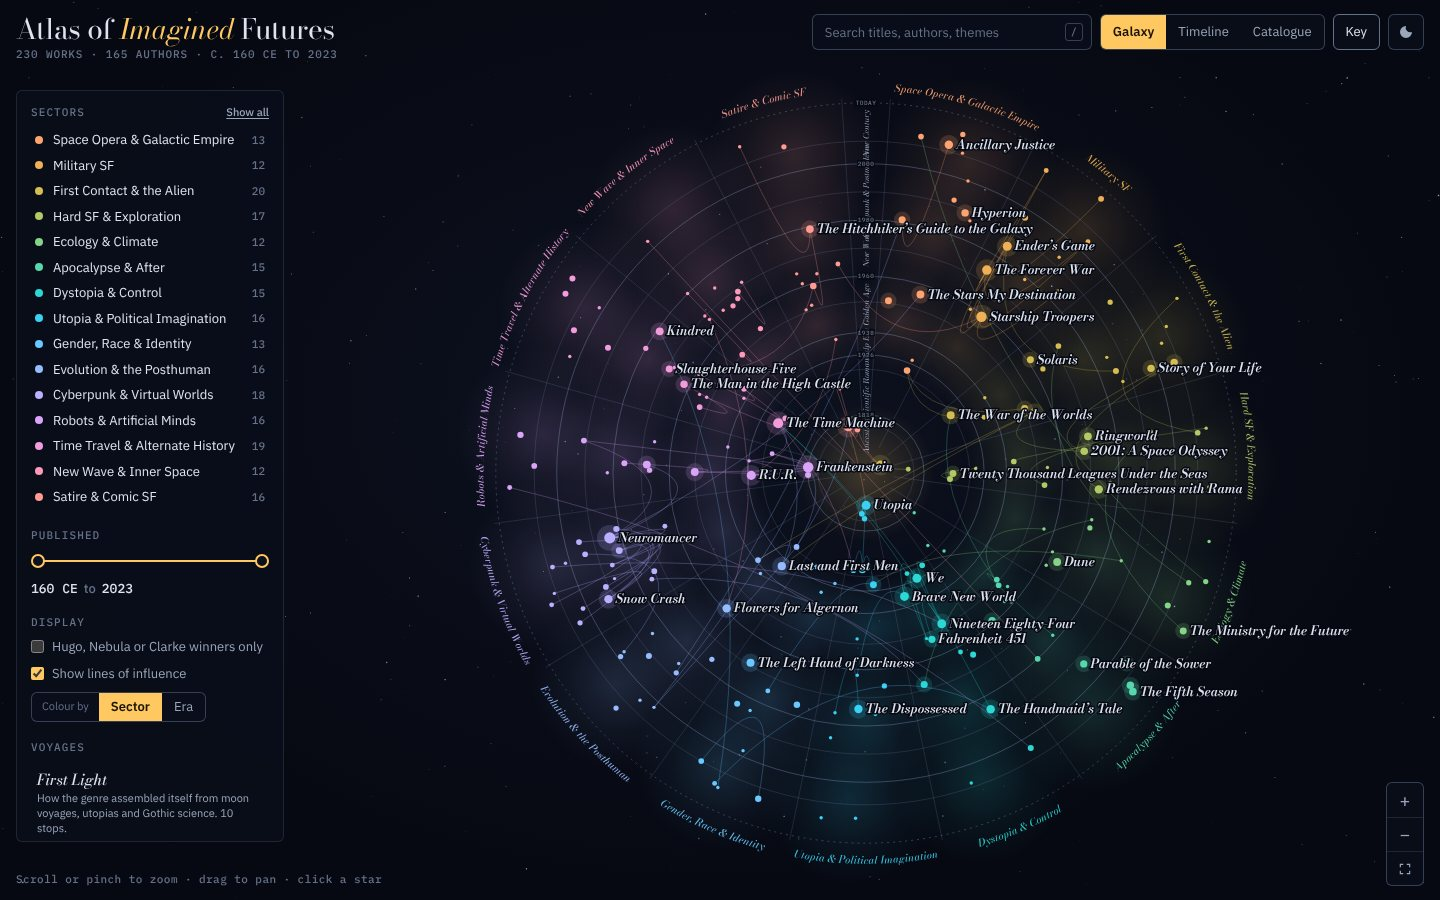
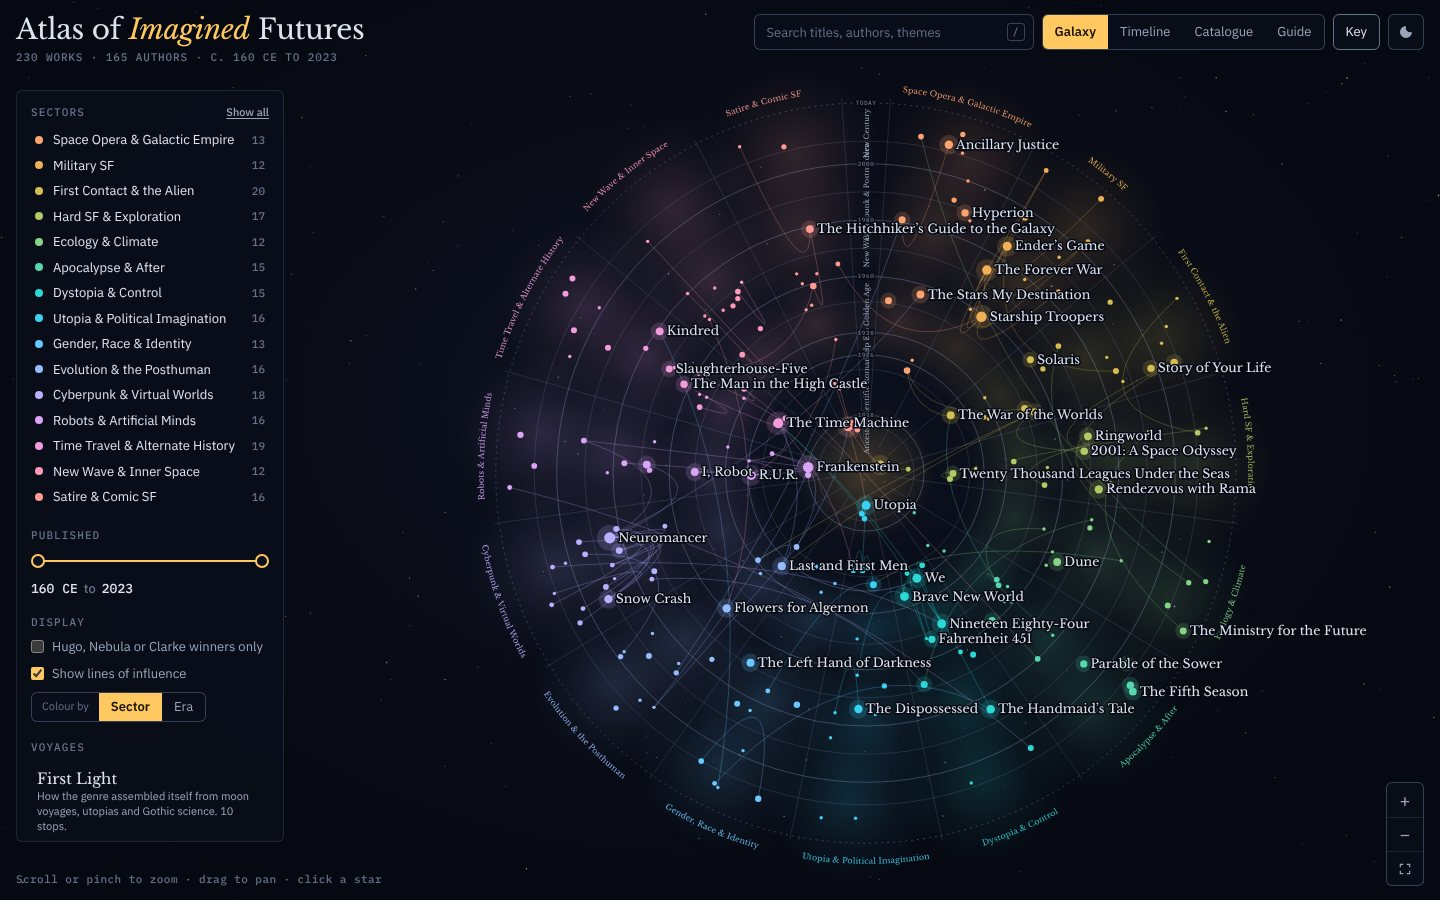
Use Libre Baskerville for titles and colour catalogue titles green
Bodoni Moda's hairline strokes, mostly set in italic, were hard to read
at small sizes on the dark chart. Titles, headings, map labels and the
app title now use Libre Baskerville set upright; italic is kept only for
the emphasised word in the app title, motif lists and quoted examples.

- Catalogue titles use a green tuned for each theme
- Map labels are measured with the loaded fonts, so label spacing
  follows the wider typeface
- Asset version tags bumped to v=3; README screenshot refreshed

Claude-Session: https://claude.ai/code/session_01M83brZF2hJaexHseNpjHLa

diff --git a/css/styles.css b/css/styles.css
@@ -18,6 +18,7 @@
   --panel-solid: #0c111e;
   --beacon: #ffc861;
   --beacon-ink: #1a1405;
+  --cat-title: oklch(0.83 0.13 152);
   --dust: 220, 228, 255;
   --halo-strength: 0.17;
   --sL: 0.8;
@@ -30,7 +31,7 @@
   --era-postmodern: oklch(0.82 0.09 235);
   --era-newcentury: oklch(0.7 0.15 258);
 
-  --f-display: 'Bodoni Moda', 'Bodoni 72', Didot, 'Times New Roman', serif;
+  --f-display: 'Libre Baskerville', Baskerville, 'Baskerville Old Face', Georgia, serif;
   --f-body: 'IBM Plex Sans', system-ui, -apple-system, 'Segoe UI', Roboto, sans-serif;
   --f-mono: 'IBM Plex Mono', ui-monospace, SFMono-Regular, Menlo, Consolas, monospace;
 
@@ -62,6 +63,7 @@
     --panel-solid: #f7f9fc;
     --beacon: #b5650f;
     --beacon-ink: #ffffff;
+  --cat-title: oklch(0.48 0.13 150);
     --dust: 21, 32, 58;
     --halo-strength: 0.12;
     --sL: 0.56;
@@ -89,6 +91,7 @@
   --panel-solid: #f7f9fc;
   --beacon: #b5650f;
   --beacon-ink: #ffffff;
+  --cat-title: oklch(0.48 0.13 150);
   --dust: 21, 32, 58;
   --halo-strength: 0.12;
   --sL: 0.56;
@@ -171,7 +174,7 @@ button { cursor: pointer; }
 .spoke { stroke: var(--rule); vector-effect: non-scaling-stroke; }
 .nebula { pointer-events: none; }
 .sector-name {
-  font: italic 500 22px var(--f-display);
+  font: 400 17px var(--f-display);
   fill: var(--c);
   letter-spacing: 0.02em;
   opacity: 0.9;
@@ -181,7 +184,7 @@ button { cursor: pointer; }
   fill: var(--ink-3);
   letter-spacing: 0.08em;
 }
-.ring-label.era { font: italic 400 17px var(--f-display); fill: var(--ink-2); letter-spacing: 0.02em; }
+.ring-label.era { font: 400 15px var(--f-display); fill: var(--ink-2); letter-spacing: 0.02em; }
 .ring-label-bg { fill: var(--void); opacity: 0.85; }
 .core-glow { pointer-events: none; }
 .ruler .era { transition: opacity 0.3s; }
@@ -189,11 +192,11 @@ button { cursor: pointer; }
 
 .lane { fill: var(--ink); opacity: 0.025; }
 .lane.alt { opacity: 0; }
-.lane-name { font: italic 500 24px var(--f-display); fill: var(--c); text-anchor: end; dominant-baseline: middle; }
+.lane-name { font: 400 20px var(--f-display); fill: var(--c); text-anchor: end; dominant-baseline: middle; }
 .tick { stroke: var(--rule); vector-effect: non-scaling-stroke; }
 .tick.major { stroke: var(--rule-strong); }
 .tick-label { font: 500 15px var(--f-mono); fill: var(--ink-3); text-anchor: middle; }
-.era-band-label { font: italic 400 21px var(--f-display); fill: var(--ink-2); }
+.era-band-label { font: 400 18px var(--f-display); fill: var(--ink-2); }
 
 .link {
   fill: none;
@@ -251,7 +254,7 @@ button { cursor: pointer; }
   stroke-linejoin: round;
   transition: opacity 0.25s;
 }
-.label.landmark { font: italic 600 13px var(--f-display); fill: var(--ink); }
+.label.landmark { font: 400 12.5px var(--f-display); fill: var(--ink); }
 .label.lit { fill: var(--ink); }
 .label.sel { fill: var(--beacon); }
 
@@ -266,7 +269,7 @@ button { cursor: pointer; }
 }
 .brand {
   margin: 0;
-  font: 400 var(--t-xl)/1.05 var(--f-display);
+  font: 400 var(--t-xl)/1.15 var(--f-display);
   letter-spacing: -0.01em;
   text-wrap: balance;
 }
@@ -512,7 +515,7 @@ button { cursor: pointer; }
   text-align: left;
 }
 .tour-list button:hover { background: var(--rule); }
-.tour-list .t-name { display: block; font: italic 500 var(--t-md) var(--f-display); }
+.tour-list .t-name { display: block; font: 400 0.9375rem/1.4 var(--f-display); }
 .tour-list .t-blurb { display: block; font-size: var(--t-xs); color: var(--ink-2); line-height: 1.4; }
 
 /* ---- Detail -------------------------------------------------------------- */
@@ -547,7 +550,7 @@ button { cursor: pointer; }
 .d-eyebrow .sec { color: var(--c); display: inline-flex; gap: 6px; align-items: center; }
 .d-title {
   margin: 10px 0 4px;
-  font: italic 500 1.6rem/1.12 var(--f-display);
+  font: 400 1.4rem/1.25 var(--f-display);
   text-wrap: balance;
 }
 .d-byline { margin: 0; font-size: var(--t-md); color: var(--ink-2); }
@@ -657,7 +660,7 @@ button { cursor: pointer; }
   color: var(--ink-3);
 }
 .tc-head strong { color: var(--beacon); font-weight: 500; }
-.tc-title { margin: 6px 0 2px; font: italic 500 var(--t-lg)/1.2 var(--f-display); }
+.tc-title { margin: 6px 0 2px; font: 400 1.125rem/1.3 var(--f-display); }
 .tc-title .by { font: 400 var(--t-sm) var(--f-body); font-style: normal; color: var(--ink-2); }
 .tc-note { margin: 4px 0 0; font-size: var(--t-sm); line-height: 1.5; color: var(--ink-2); }
 .tc-nav { display: flex; gap: 8px; margin-top: 10px; align-items: center; }
@@ -756,7 +759,7 @@ button { cursor: pointer; }
 .cat-table tr { cursor: pointer; }
 .cat-table tbody tr:hover td, .cat-table tbody tr.sel td { background: var(--rule); }
 .cat-table .c-year { font-family: var(--f-mono); color: var(--ink-2); font-variant-numeric: tabular-nums; white-space: nowrap; }
-.cat-table .c-title { font: italic 500 1rem var(--f-display); }
+.cat-table .c-title { font: 400 0.9375rem/1.45 var(--f-display); color: var(--cat-title); }
 .cat-table .c-sector { white-space: nowrap; color: var(--ink-2); }
 .cat-table .c-sector .dot { margin-right: 6px; }
 .cat-table .c-awards { color: var(--beacon); font-size: var(--t-xs); white-space: nowrap; }
@@ -791,7 +794,7 @@ button { cursor: pointer; }
   text-transform: uppercase;
   color: var(--beacon);
 }
-.guide-title { margin: 0; font: italic 400 clamp(2rem, 4.5vw, 3.1rem)/1.05 var(--f-display); letter-spacing: -0.01em; text-wrap: balance; }
+.guide-title { margin: 0; font: 400 clamp(1.75rem, 4vw, 2.6rem)/1.15 var(--f-display); letter-spacing: -0.01em; text-wrap: balance; }
 .guide-tabs { display: flex; flex-wrap: wrap; gap: 4px; margin-top: 12px; }
 .guide-tabs button {
   margin-bottom: -1px;
@@ -818,7 +821,7 @@ button { cursor: pointer; }
 }
 .g-contents button:hover { color: var(--ink); border-color: var(--ink-3); }
 
-.g-name { margin: 0; font: italic 500 1.5rem/1.15 var(--f-display); text-wrap: balance; }
+.g-name { margin: 0; font: 400 1.3rem/1.3 var(--f-display); text-wrap: balance; }
 .g-summary { margin: 0; max-width: 68ch; line-height: 1.6; }
 .g-h {
   margin: 6px 0 0;
@@ -836,7 +839,7 @@ button { cursor: pointer; }
   font-size: var(--t-sm);
   line-height: 1.5;
 }
-.g-motifs { margin: 0; font: italic 400 1rem/1.5 var(--f-display); color: var(--ink-2); }
+.g-motifs { margin: 0; font: italic 400 0.9375rem/1.6 var(--f-display); color: var(--ink-2); }
 .g-foot { display: flex; flex-direction: column; gap: 8px; margin-top: 8px; }
 .g-works { list-style: none; margin: 0; padding: 0; display: flex; flex-wrap: wrap; gap: 6px; }
 .g-chip {
@@ -922,7 +925,7 @@ button { cursor: pointer; }
   background: color-mix(in oklab, var(--beacon) 9%, transparent);
 }
 .g-example .g-h { margin: 0; }
-.g-example p { margin: 6px 0 10px; font: italic 400 1.05rem/1.55 var(--f-display); }
+.g-example p { margin: 6px 0 10px; font: italic 400 1rem/1.65 var(--f-display); }
 .g-source {
   display: inline-flex;
   align-items: center;
@@ -960,7 +963,7 @@ button { cursor: pointer; }
   box-shadow: 0 10px 30px rgba(0, 0, 0, 0.25);
 }
 .sp-label { font: 500 var(--t-xs) var(--f-mono); letter-spacing: 0.1em; text-transform: uppercase; color: var(--beacon); }
-.sp-name { font: italic 500 var(--t-md) var(--f-display); }
+.sp-name { font: 400 var(--t-md) var(--f-display); }
 .sp-n { font: 500 var(--t-xs) var(--f-mono); color: var(--ink-3); }
 .app.touring .spotlight { display: none; }
 
@@ -972,7 +975,7 @@ button { cursor: pointer; }
 }
 
 @media (max-width: 680px) {
-  :root { --t-xl: 1.375rem; }
+  :root { --t-xl: 1.25rem; }
   .masthead { max-width: calc(100% - 32px); }
   .toolbar {
     top: calc(var(--edge-t) + 50px);

diff --git a/index.html b/index.html
@@ -7,8 +7,8 @@
   <meta name="description" content="An interactive star chart of science fiction literature: over two hundred works, their eras, themes and lines of influence.">
   <link rel="preconnect" href="https://fonts.googleapis.com">
   <link rel="preconnect" href="https://fonts.gstatic.com" crossorigin>
-  <link rel="stylesheet" href="https://fonts.googleapis.com/css2?family=Bodoni+Moda:ital,opsz,wght@0,6..96,400..700;1,6..96,400..700&family=IBM+Plex+Mono:wght@400;500&family=IBM+Plex+Sans:ital,wght@0,400;0,500;0,600;1,400&display=swap">
-  <link rel="stylesheet" href="css/styles.css?v=2">
+  <link rel="stylesheet" href="https://fonts.googleapis.com/css2?family=Libre+Baskerville:ital,wght@0,400;0,700;1,400&family=IBM+Plex+Mono:wght@400;500&family=IBM+Plex+Sans:ital,wght@0,400;0,500;0,600;1,400&display=swap">
+  <link rel="stylesheet" href="css/styles.css?v=3">
 </head>
 <body>
   <div class="app" id="app" data-view="galaxy">
@@ -94,31 +94,31 @@
     <p class="hint" id="hint">Scroll or pinch to zoom &middot; drag to pan &middot; click a star</p>
   </div>
 
-  <script src="data/meta.js?v=2"></script>
-  <script src="data/sectors/opera.js?v=2"></script>
-  <script src="data/sectors/military.js?v=2"></script>
-  <script src="data/sectors/contact.js?v=2"></script>
-  <script src="data/sectors/hard.js?v=2"></script>
-  <script src="data/sectors/eco.js?v=2"></script>
-  <script src="data/sectors/apoc.js?v=2"></script>
-  <script src="data/sectors/dystopia.js?v=2"></script>
-  <script src="data/sectors/utopia.js?v=2"></script>
-  <script src="data/sectors/identity.js?v=2"></script>
-  <script src="data/sectors/posthuman.js?v=2"></script>
-  <script src="data/sectors/cyber.js?v=2"></script>
-  <script src="data/sectors/ai.js?v=2"></script>
-  <script src="data/sectors/time.js?v=2"></script>
-  <script src="data/sectors/inner.js?v=2"></script>
-  <script src="data/sectors/satire.js?v=2"></script>
-  <script src="data/tours.js?v=2"></script>
-  <script src="data/guide/themes.js?v=2"></script>
-  <script src="data/guide/science.js?v=2"></script>
-  <script src="data/guide/craft.js?v=2"></script>
-  <script src="js/layout.js?v=2"></script>
-  <script src="js/decor.js?v=2"></script>
-  <script src="js/chart.js?v=2"></script>
-  <script src="js/panels.js?v=2"></script>
-  <script src="js/guide.js?v=2"></script>
-  <script src="js/app.js?v=2"></script>
+  <script src="data/meta.js?v=3"></script>
+  <script src="data/sectors/opera.js?v=3"></script>
+  <script src="data/sectors/military.js?v=3"></script>
+  <script src="data/sectors/contact.js?v=3"></script>
+  <script src="data/sectors/hard.js?v=3"></script>
+  <script src="data/sectors/eco.js?v=3"></script>
+  <script src="data/sectors/apoc.js?v=3"></script>
+  <script src="data/sectors/dystopia.js?v=3"></script>
+  <script src="data/sectors/utopia.js?v=3"></script>
+  <script src="data/sectors/identity.js?v=3"></script>
+  <script src="data/sectors/posthuman.js?v=3"></script>
+  <script src="data/sectors/cyber.js?v=3"></script>
+  <script src="data/sectors/ai.js?v=3"></script>
+  <script src="data/sectors/time.js?v=3"></script>
+  <script src="data/sectors/inner.js?v=3"></script>
+  <script src="data/sectors/satire.js?v=3"></script>
+  <script src="data/tours.js?v=3"></script>
+  <script src="data/guide/themes.js?v=3"></script>
+  <script src="data/guide/science.js?v=3"></script>
+  <script src="data/guide/craft.js?v=3"></script>
+  <script src="js/layout.js?v=3"></script>
+  <script src="js/decor.js?v=3"></script>
+  <script src="js/chart.js?v=3"></script>
+  <script src="js/panels.js?v=3"></script>
+  <script src="js/guide.js?v=3"></script>
+  <script src="js/app.js?v=3"></script>
 </body>
 </html>

diff --git a/js/chart.js b/js/chart.js
@@ -77,10 +77,32 @@
       var lab = el('text', { class: 'label' + (w.landmark ? ' landmark' : ''), 'data-id': w.id }, labelsG);
       lab.textContent = shortTitle(w);
       lab.style.display = 'none';
-      labels[w.id] = { el: lab, width: shortTitle(w).length * (w.landmark ? 7.1 : 6.1) };
+      labels[w.id] = { el: lab, width: shortTitle(w).length * (w.landmark ? 7.4 : 6.1) };
 
       cur[w.id] = { x: G.galaxy.pos[w.id].x, y: G.galaxy.pos[w.id].y };
     });
+
+    // Measure label widths with the real fonts (again once web fonts have
+    // loaded), so collision avoidance matches what is drawn.
+    function measureLabels() {
+      var ctx2 = document.createElement('canvas').getContext('2d');
+      var fontFor = {};
+      S.works.forEach(function (w) {
+        var lab = labels[w.id];
+        var key = w.landmark ? 'landmark' : 'plain';
+        if (!fontFor[key]) {
+          var cs = getComputedStyle(lab.el);
+          fontFor[key] = cs.fontStyle + ' ' + cs.fontWeight + ' ' + cs.fontSize + ' ' + cs.fontFamily;
+        }
+        ctx2.font = fontFor[key];
+        var width = ctx2.measureText(lab.el.textContent).width;
+        if (width > 0) lab.width = width;
+      });
+    }
+    measureLabels();
+    if (document.fonts && document.fonts.ready) {
+      document.fonts.ready.then(function () { measureLabels(); queueLabels(); });
+    }
 
     // ---- Geometry ----------------------------------------------------------
 

diff --git a/README.md b/README.md
@@ -45,7 +45,7 @@ npm run serve
 
 `scripts/serve.py` tells the browser to re-check every file, so you always see the latest version after pulling changes. If you use another server and the page looks out of date (for example a button that does nothing), force a full reload with <kbd>Cmd</kbd>+<kbd>Shift</kbd>+<kbd>R</kbd> (<kbd>Ctrl</kbd>+<kbd>Shift</kbd>+<kbd>R</kbd> on Windows and Linux).
 
-The stylesheet and scripts are linked from `index.html` with a version tag (`?v=2`). Increase it whenever you change CSS or JavaScript, so that browsers and hosts such as GitHub Pages load the new files instead of cached ones.
+The stylesheet and scripts are linked from `index.html` with a version tag (`?v=3`). Increase it whenever you change CSS or JavaScript, so that browsers and hosts such as GitHub Pages load the new files instead of cached ones.
 
 To publish it with GitHub Pages, enable Pages for the repository and point it at the branch root.
 
